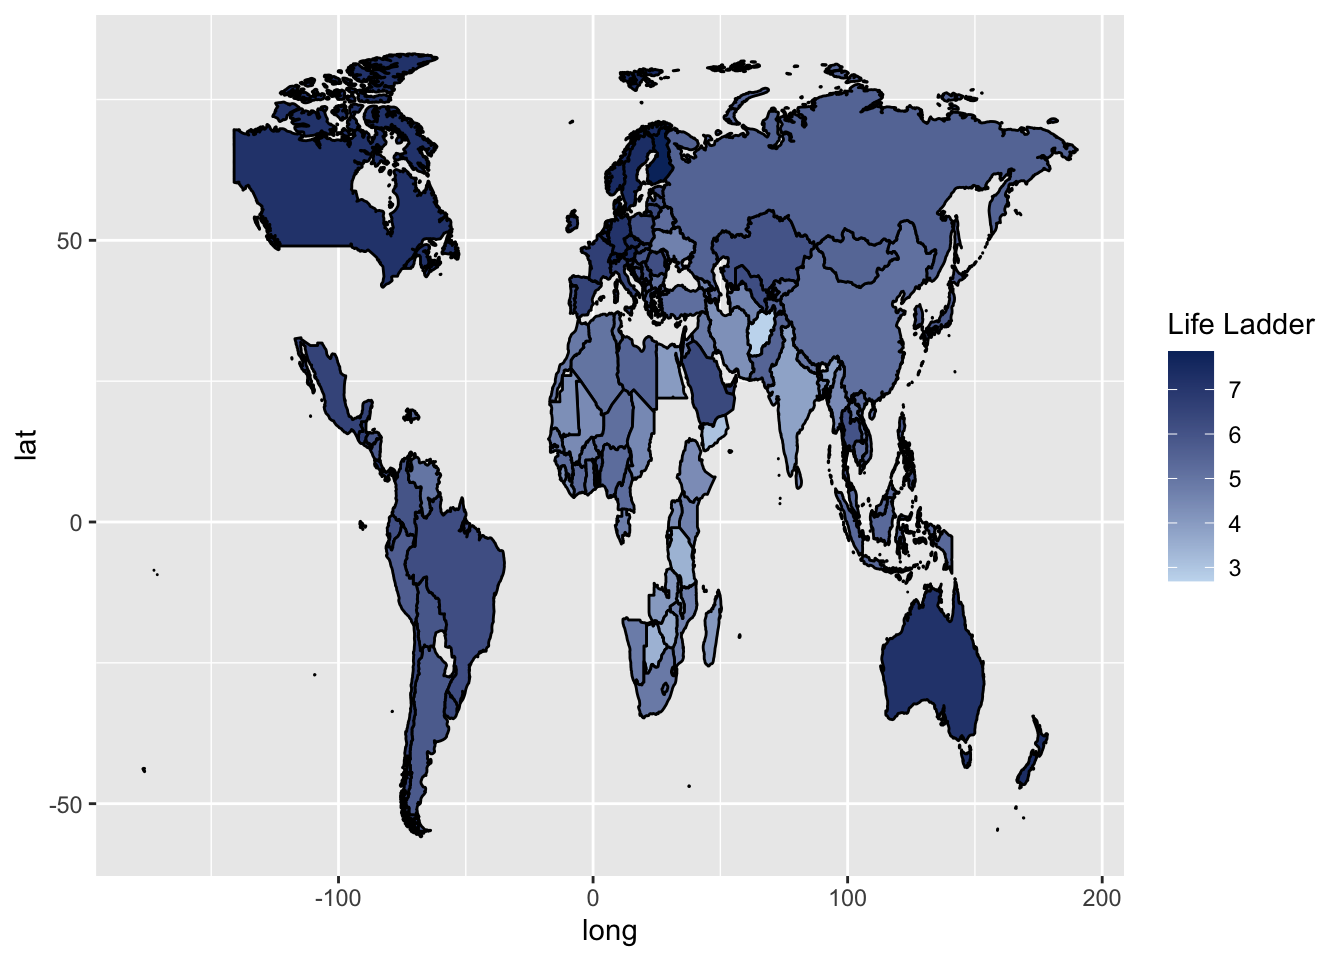
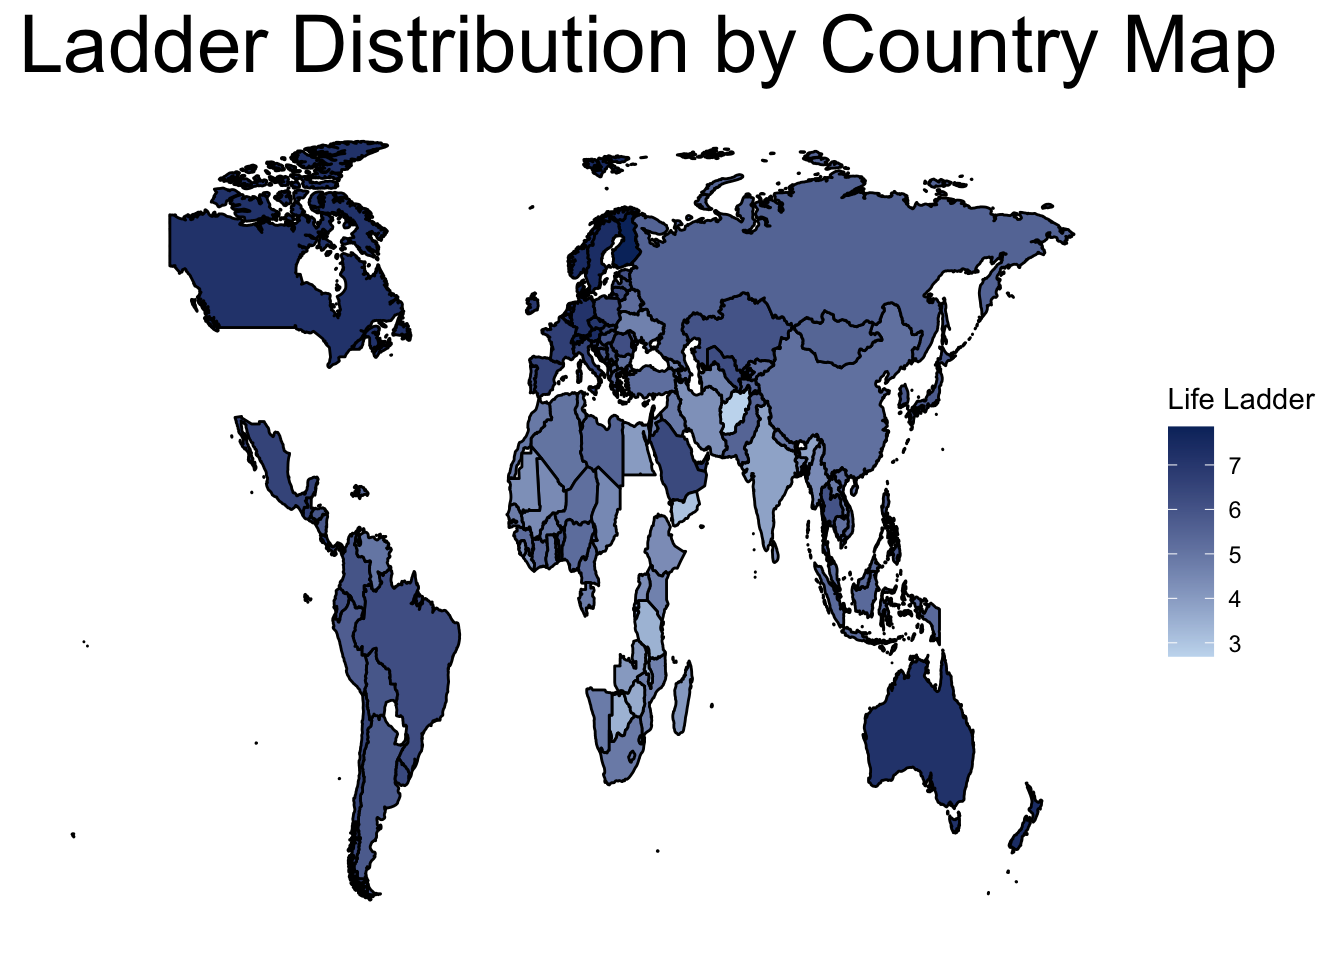
render

diff --git a/docs/results.html b/docs/results.html
@@ -140,7 +140,9 @@
 </ul></li>
 <li class="chapter" data-level="5.2" data-path="results.html"><a href="results.html#general-life-ladder-distribution"><i class="fa fa-check"></i><b>5.2</b> General Life Ladder Distribution</a>
 <ul>
-<li class="chapter" data-level="5.2.1" data-path="results.html"><a href="results.html#distribution-across-time"><i class="fa fa-check"></i><b>5.2.1</b> Distribution across Time</a></li>
+<li class="chapter" data-level="5.2.1" data-path="results.html"><a href="results.html#distribution-by-country"><i class="fa fa-check"></i><b>5.2.1</b> Distribution by Country</a></li>
+<li class="chapter" data-level="5.2.2" data-path="results.html"><a href="results.html#distribution-by-region"><i class="fa fa-check"></i><b>5.2.2</b> Distribution by Region</a></li>
+<li class="chapter" data-level="5.2.3" data-path="results.html"><a href="results.html#distribution-across-time"><i class="fa fa-check"></i><b>5.2.3</b> Distribution across Time</a></li>
 </ul></li>
 <li class="chapter" data-level="5.3" data-path="results.html"><a href="results.html#covid-19-impact-on-life-ladder"><i class="fa fa-check"></i><b>5.3</b> COVID-19 Impact on Life Ladder</a>
 <ul>
@@ -185,7 +187,7 @@
 <h3><span class="header-section-number">5.1.2</span> Beta Comparison</h3>
 <p>To further study if importance of these factors change over time, we plot the value of standardized beta coefficients from running regression of life ladder on all the variables after standardization (note: beta coefficients should not be interpreted as factor importance unless variables are all standardized to the same scale). To this end, we selected seven variables that are present for most countries throughout the years.</p>
 <div id="htmlwidget-f76188f4ce40a4c2d3b0" style="width:672px;height:480px;" class="dygraphs html-widget"></div>
-<script type="application/json" data-for="htmlwidget-f76188f4ce40a4c2d3b0">{"x":{"attrs":{"axes":{"x":{"pixelsPerLabel":60,"valueRange":[2008,2020],"drawAxis":true},"y":{"drawAxis":true}},"title":"Standardized Beta, 2008-2020 <small>from regressing life ladder on all variables<\/small>","labels":["year","LogGDP","SocialSupp","Positive","Freedom","Generosity","PercepCorrup","Negative"],"retainDateWindow":false,"legend":"always","labelsDivWidth":700,"labelsShowZeroValues":true,"labelsSeparateLines":false,"hideOverlayOnMouseOut":true,"xlabel":"Year","stackedGraph":false,"fillGraph":false,"fillAlpha":0.15,"stepPlot":false,"drawPoints":false,"pointSize":1,"drawGapEdgePoints":false,"connectSeparatedPoints":false,"strokeWidth":1,"strokeBorderColor":"white","colors":["#1B9E77","#D95F02","#7570B3","#E7298A","#66A61E","#E6AB02","#A6761D","#666666"],"colorValue":0.5,"colorSaturation":1,"includeZero":false,"drawAxesAtZero":false,"logscale":false,"axisTickSize":3,"axisLineColor":"black","axisLineWidth":0.3,"axisLabelColor":"black","axisLabelFontSize":14,"axisLabelWidth":60,"drawGrid":true,"gridLineWidth":0.3,"rightGap":5,"digitsAfterDecimal":2,"labelsKMB":false,"labelsKMG2":false,"labelsUTC":false,"maxNumberWidth":6,"animatedZooms":false,"mobileDisableYTouch":true,"disableZoom":false},"annotations":[],"shadings":[],"events":[],"format":"numeric","data":[[2008,2009,2010,2011,2012,2013,2014,2015,2016,2017,2018,2019,2020],[0.469343058086005,0.296247341357727,0.395884400710492,0.400081849082004,0.476068840594561,0.35374028838893,0.261096944448238,0.411541541419157,0.437233047461875,0.326639328036139,0.427538241891335,0.140314888588237,0.561891227236557],[0.14657870527543,0.161293337704717,0.147847794029674,0.23403280040131,0.23278893209661,0.158922351062654,0.205112106973735,0.238614273162478,0.218324654545379,0.281706712470993,0.30173317536422,0.397474962231379,0.21796363871883],[0.152046772844776,0.334606515209534,0.311458092696253,0.218229020189734,0.256658600486095,0.148831286007783,0.115644295533216,0.144486929123654,0.158292774500574,0.130633286931573,0.153141630952764,0.184558404304597,0.039010562353979],[0.0663675642198647,0.0343244962396497,-0.0220278059222174,-0.00800974749437569,0.0209366303469295,0.0848152673485359,0.0880329360858417,0.117360212195373,0.0994786591788774,0.095296006737192,0.0736162919647841,0.0855394844941351,0.16883412570971],[0.0610992822454331,-0.0204716470577014,0.0833178102857242,0.107153616074248,0.0304069085958992,0.0475171964001673,0.0775678272825103,0.00971061950177393,0.0667087129100471,0.0258677262674065,0.0381594736142891,0.0228011363195216,0.0333152834245689],[-0.164393216723474,-0.136647807520135,-0.213978342491112,-0.135256228862224,-0.114192632179087,-0.061977358315452,-0.0664407397656468,-0.125054553804381,-0.0489768392608907,-0.111250192840616,-0.15922534784745,-0.148692177683828,-0.101869825282415],[-0.0404815962512034,0.0338131943008562,0.13807025505277,-0.0152969874606031,-0.0206379862542476,-0.0559106230393733,-0.0065212657878241,0.0924266746269485,0.0645895721460384,0.0823192388108765,0.250069515492336,0.176789217594519,-0.0428264659374873]],"fixedtz":false,"tzone":""},"evals":[],"jsHooks":[]}</script>
+<script type="application/json" data-for="htmlwidget-f76188f4ce40a4c2d3b0">{"x":{"attrs":{"axes":{"x":{"pixelsPerLabel":60,"valueRange":[2008,2020],"drawAxis":true},"y":{"drawAxis":true}},"title":"Standardized Beta, 2008-2020 <small>from regressing life ladder on all variables<\/small>","labels":["year","LogGDP","SocialSupp","Positive","Freedom","Generosity","PercepCorrup","Negative"],"retainDateWindow":false,"legend":"always","labelsDivWidth":650,"labelsShowZeroValues":true,"labelsSeparateLines":false,"hideOverlayOnMouseOut":true,"xlabel":"Year","stackedGraph":false,"fillGraph":false,"fillAlpha":0.15,"stepPlot":false,"drawPoints":false,"pointSize":1,"drawGapEdgePoints":false,"connectSeparatedPoints":false,"strokeWidth":1,"strokeBorderColor":"white","colors":["#1B9E77","#D95F02","#7570B3","#E7298A","#66A61E","#E6AB02","#A6761D","#666666"],"colorValue":0.5,"colorSaturation":1,"includeZero":false,"drawAxesAtZero":false,"logscale":false,"axisTickSize":3,"axisLineColor":"black","axisLineWidth":0.3,"axisLabelColor":"black","axisLabelFontSize":14,"axisLabelWidth":60,"drawGrid":true,"gridLineWidth":0.3,"rightGap":5,"digitsAfterDecimal":2,"labelsKMB":false,"labelsKMG2":false,"labelsUTC":false,"maxNumberWidth":6,"animatedZooms":false,"mobileDisableYTouch":true,"disableZoom":false},"annotations":[],"shadings":[],"events":[],"format":"numeric","data":[[2008,2009,2010,2011,2012,2013,2014,2015,2016,2017,2018,2019,2020],[0.469343058086005,0.296247341357727,0.395884400710492,0.400081849082004,0.476068840594561,0.35374028838893,0.261096944448238,0.411541541419157,0.437233047461875,0.326639328036139,0.427538241891335,0.140314888588237,0.561891227236557],[0.14657870527543,0.161293337704717,0.147847794029674,0.23403280040131,0.23278893209661,0.158922351062654,0.205112106973735,0.238614273162478,0.218324654545379,0.281706712470993,0.30173317536422,0.397474962231379,0.21796363871883],[0.152046772844776,0.334606515209534,0.311458092696253,0.218229020189734,0.256658600486095,0.148831286007783,0.115644295533216,0.144486929123654,0.158292774500574,0.130633286931573,0.153141630952764,0.184558404304597,0.039010562353979],[0.0663675642198647,0.0343244962396497,-0.0220278059222174,-0.00800974749437569,0.0209366303469295,0.0848152673485359,0.0880329360858417,0.117360212195373,0.0994786591788774,0.095296006737192,0.0736162919647841,0.0855394844941351,0.16883412570971],[0.0610992822454331,-0.0204716470577014,0.0833178102857242,0.107153616074248,0.0304069085958992,0.0475171964001673,0.0775678272825103,0.00971061950177393,0.0667087129100471,0.0258677262674065,0.0381594736142891,0.0228011363195216,0.0333152834245689],[-0.164393216723474,-0.136647807520135,-0.213978342491112,-0.135256228862224,-0.114192632179087,-0.061977358315452,-0.0664407397656468,-0.125054553804381,-0.0489768392608907,-0.111250192840616,-0.15922534784745,-0.148692177683828,-0.101869825282415],[-0.0404815962512034,0.0338131943008562,0.13807025505277,-0.0152969874606031,-0.0206379862542476,-0.0559106230393733,-0.0065212657878241,0.0924266746269485,0.0645895721460384,0.0823192388108765,0.250069515492336,0.176789217594519,-0.0428264659374873]],"fixedtz":false,"tzone":""},"evals":[],"jsHooks":[]}</script>
 <p><strong>Hover your cursor over the lines to explore the values at different years.</strong> It’s clear that GDP, social support and positive affects remain the top three factors affecting life ladder across time. The importance of GDP outweighs all other, with the only exception in 2019, which suggests that, from a global perspective, people’s happiness is always most closely related with economic prosperity for material satisfaction.</p>
 <p>Perception of corruption always remains the most negatively correlated, which signals that people around the world do take government corruption seriously.</p>
 <p>Freedom to make choices and generosity remain weakly correlated with life ladder throughout the years, which implies that the global society is prioritizing materials over mental wellness when it comes to happiness.</p>
@@ -193,12 +195,17 @@
 </div>
 <div id="general-life-ladder-distribution" class="section level2" number="5.2">
 <h2><span class="header-section-number">5.2</span> General Life Ladder Distribution</h2>
-<p>For this part, we are also using baseline data from 2018.
-### Distribution by Country
-<img src="finalproj_files/figure-html/unnamed-chunk-14-1.png" width="672" />
-### Distribution by Region</p>
-<div id="distribution-across-time" class="section level3" number="5.2.1">
-<h3><span class="header-section-number">5.2.1</span> Distribution across Time</h3>
+<p>For this part, we are also using baseline data from 2018.</p>
+<div id="distribution-by-country" class="section level3" number="5.2.1">
+<h3><span class="header-section-number">5.2.1</span> Distribution by Country</h3>
+<p><img src="finalproj_files/figure-html/unnamed-chunk-14-1.png" width="672" /></p>
+<p>From the map, it is not hard to tell that the life ladder score is generally higher for European, North America and Oceanian countries. Colors are lighter, thus lower happiness score,</p>
+</div>
+<div id="distribution-by-region" class="section level3" number="5.2.2">
+<h3><span class="header-section-number">5.2.2</span> Distribution by Region</h3>
+</div>
+<div id="distribution-across-time" class="section level3" number="5.2.3">
+<h3><span class="header-section-number">5.2.3</span> Distribution across Time</h3>
 <p>To be discussed in Chapter 6, the Interactive Component.</p>
 </div>
 </div>

diff --git a/docs/404.html b/docs/404.html
@@ -140,7 +140,9 @@
 </ul></li>
 <li class="chapter" data-level="5.2" data-path="results.html"><a href="results.html#general-life-ladder-distribution"><i class="fa fa-check"></i><b>5.2</b> General Life Ladder Distribution</a>
 <ul>
-<li class="chapter" data-level="5.2.1" data-path="results.html"><a href="results.html#distribution-across-time"><i class="fa fa-check"></i><b>5.2.1</b> Distribution across Time</a></li>
+<li class="chapter" data-level="5.2.1" data-path="results.html"><a href="results.html#distribution-by-country"><i class="fa fa-check"></i><b>5.2.1</b> Distribution by Country</a></li>
+<li class="chapter" data-level="5.2.2" data-path="results.html"><a href="results.html#distribution-by-region"><i class="fa fa-check"></i><b>5.2.2</b> Distribution by Region</a></li>
+<li class="chapter" data-level="5.2.3" data-path="results.html"><a href="results.html#distribution-across-time"><i class="fa fa-check"></i><b>5.2.3</b> Distribution across Time</a></li>
 </ul></li>
 <li class="chapter" data-level="5.3" data-path="results.html"><a href="results.html#covid-19-impact-on-life-ladder"><i class="fa fa-check"></i><b>5.3</b> COVID-19 Impact on Life Ladder</a>
 <ul>

diff --git a/docs/conclusion.html b/docs/conclusion.html
@@ -140,7 +140,9 @@
 </ul></li>
 <li class="chapter" data-level="5.2" data-path="results.html"><a href="results.html#general-life-ladder-distribution"><i class="fa fa-check"></i><b>5.2</b> General Life Ladder Distribution</a>
 <ul>
-<li class="chapter" data-level="5.2.1" data-path="results.html"><a href="results.html#distribution-across-time"><i class="fa fa-check"></i><b>5.2.1</b> Distribution across Time</a></li>
+<li class="chapter" data-level="5.2.1" data-path="results.html"><a href="results.html#distribution-by-country"><i class="fa fa-check"></i><b>5.2.1</b> Distribution by Country</a></li>
+<li class="chapter" data-level="5.2.2" data-path="results.html"><a href="results.html#distribution-by-region"><i class="fa fa-check"></i><b>5.2.2</b> Distribution by Region</a></li>
+<li class="chapter" data-level="5.2.3" data-path="results.html"><a href="results.html#distribution-across-time"><i class="fa fa-check"></i><b>5.2.3</b> Distribution across Time</a></li>
 </ul></li>
 <li class="chapter" data-level="5.3" data-path="results.html"><a href="results.html#covid-19-impact-on-life-ladder"><i class="fa fa-check"></i><b>5.3</b> COVID-19 Impact on Life Ladder</a>
 <ul>

diff --git a/docs/data-sources.html b/docs/data-sources.html
@@ -140,7 +140,9 @@
 </ul></li>
 <li class="chapter" data-level="5.2" data-path="results.html"><a href="results.html#general-life-ladder-distribution"><i class="fa fa-check"></i><b>5.2</b> General Life Ladder Distribution</a>
 <ul>
-<li class="chapter" data-level="5.2.1" data-path="results.html"><a href="results.html#distribution-across-time"><i class="fa fa-check"></i><b>5.2.1</b> Distribution across Time</a></li>
+<li class="chapter" data-level="5.2.1" data-path="results.html"><a href="results.html#distribution-by-country"><i class="fa fa-check"></i><b>5.2.1</b> Distribution by Country</a></li>
+<li class="chapter" data-level="5.2.2" data-path="results.html"><a href="results.html#distribution-by-region"><i class="fa fa-check"></i><b>5.2.2</b> Distribution by Region</a></li>
+<li class="chapter" data-level="5.2.3" data-path="results.html"><a href="results.html#distribution-across-time"><i class="fa fa-check"></i><b>5.2.3</b> Distribution across Time</a></li>
 </ul></li>
 <li class="chapter" data-level="5.3" data-path="results.html"><a href="results.html#covid-19-impact-on-life-ladder"><i class="fa fa-check"></i><b>5.3</b> COVID-19 Impact on Life Ladder</a>
 <ul>

diff --git a/docs/data-transformation.html b/docs/data-transformation.html
@@ -140,7 +140,9 @@
 </ul></li>
 <li class="chapter" data-level="5.2" data-path="results.html"><a href="results.html#general-life-ladder-distribution"><i class="fa fa-check"></i><b>5.2</b> General Life Ladder Distribution</a>
 <ul>
-<li class="chapter" data-level="5.2.1" data-path="results.html"><a href="results.html#distribution-across-time"><i class="fa fa-check"></i><b>5.2.1</b> Distribution across Time</a></li>
+<li class="chapter" data-level="5.2.1" data-path="results.html"><a href="results.html#distribution-by-country"><i class="fa fa-check"></i><b>5.2.1</b> Distribution by Country</a></li>
+<li class="chapter" data-level="5.2.2" data-path="results.html"><a href="results.html#distribution-by-region"><i class="fa fa-check"></i><b>5.2.2</b> Distribution by Region</a></li>
+<li class="chapter" data-level="5.2.3" data-path="results.html"><a href="results.html#distribution-across-time"><i class="fa fa-check"></i><b>5.2.3</b> Distribution across Time</a></li>
 </ul></li>
 <li class="chapter" data-level="5.3" data-path="results.html"><a href="results.html#covid-19-impact-on-life-ladder"><i class="fa fa-check"></i><b>5.3</b> COVID-19 Impact on Life Ladder</a>
 <ul>

diff --git a/docs/index.html b/docs/index.html
@@ -140,7 +140,9 @@
 </ul></li>
 <li class="chapter" data-level="5.2" data-path="results.html"><a href="results.html#general-life-ladder-distribution"><i class="fa fa-check"></i><b>5.2</b> General Life Ladder Distribution</a>
 <ul>
-<li class="chapter" data-level="5.2.1" data-path="results.html"><a href="results.html#distribution-across-time"><i class="fa fa-check"></i><b>5.2.1</b> Distribution across Time</a></li>
+<li class="chapter" data-level="5.2.1" data-path="results.html"><a href="results.html#distribution-by-country"><i class="fa fa-check"></i><b>5.2.1</b> Distribution by Country</a></li>
+<li class="chapter" data-level="5.2.2" data-path="results.html"><a href="results.html#distribution-by-region"><i class="fa fa-check"></i><b>5.2.2</b> Distribution by Region</a></li>
+<li class="chapter" data-level="5.2.3" data-path="results.html"><a href="results.html#distribution-across-time"><i class="fa fa-check"></i><b>5.2.3</b> Distribution across Time</a></li>
 </ul></li>
 <li class="chapter" data-level="5.3" data-path="results.html"><a href="results.html#covid-19-impact-on-life-ladder"><i class="fa fa-check"></i><b>5.3</b> COVID-19 Impact on Life Ladder</a>
 <ul>

diff --git a/docs/interactive-component.html b/docs/interactive-component.html
@@ -140,7 +140,9 @@
 </ul></li>
 <li class="chapter" data-level="5.2" data-path="results.html"><a href="results.html#general-life-ladder-distribution"><i class="fa fa-check"></i><b>5.2</b> General Life Ladder Distribution</a>
 <ul>
-<li class="chapter" data-level="5.2.1" data-path="results.html"><a href="results.html#distribution-across-time"><i class="fa fa-check"></i><b>5.2.1</b> Distribution across Time</a></li>
+<li class="chapter" data-level="5.2.1" data-path="results.html"><a href="results.html#distribution-by-country"><i class="fa fa-check"></i><b>5.2.1</b> Distribution by Country</a></li>
+<li class="chapter" data-level="5.2.2" data-path="results.html"><a href="results.html#distribution-by-region"><i class="fa fa-check"></i><b>5.2.2</b> Distribution by Region</a></li>
+<li class="chapter" data-level="5.2.3" data-path="results.html"><a href="results.html#distribution-across-time"><i class="fa fa-check"></i><b>5.2.3</b> Distribution across Time</a></li>
 </ul></li>
 <li class="chapter" data-level="5.3" data-path="results.html"><a href="results.html#covid-19-impact-on-life-ladder"><i class="fa fa-check"></i><b>5.3</b> COVID-19 Impact on Life Ladder</a>
 <ul>

diff --git a/docs/missing-values.html b/docs/missing-values.html
@@ -140,7 +140,9 @@
 </ul></li>
 <li class="chapter" data-level="5.2" data-path="results.html"><a href="results.html#general-life-ladder-distribution"><i class="fa fa-check"></i><b>5.2</b> General Life Ladder Distribution</a>
 <ul>
-<li class="chapter" data-level="5.2.1" data-path="results.html"><a href="results.html#distribution-across-time"><i class="fa fa-check"></i><b>5.2.1</b> Distribution across Time</a></li>
+<li class="chapter" data-level="5.2.1" data-path="results.html"><a href="results.html#distribution-by-country"><i class="fa fa-check"></i><b>5.2.1</b> Distribution by Country</a></li>
+<li class="chapter" data-level="5.2.2" data-path="results.html"><a href="results.html#distribution-by-region"><i class="fa fa-check"></i><b>5.2.2</b> Distribution by Region</a></li>
+<li class="chapter" data-level="5.2.3" data-path="results.html"><a href="results.html#distribution-across-time"><i class="fa fa-check"></i><b>5.2.3</b> Distribution across Time</a></li>
 </ul></li>
 <li class="chapter" data-level="5.3" data-path="results.html"><a href="results.html#covid-19-impact-on-life-ladder"><i class="fa fa-check"></i><b>5.3</b> COVID-19 Impact on Life Ladder</a>
 <ul>
